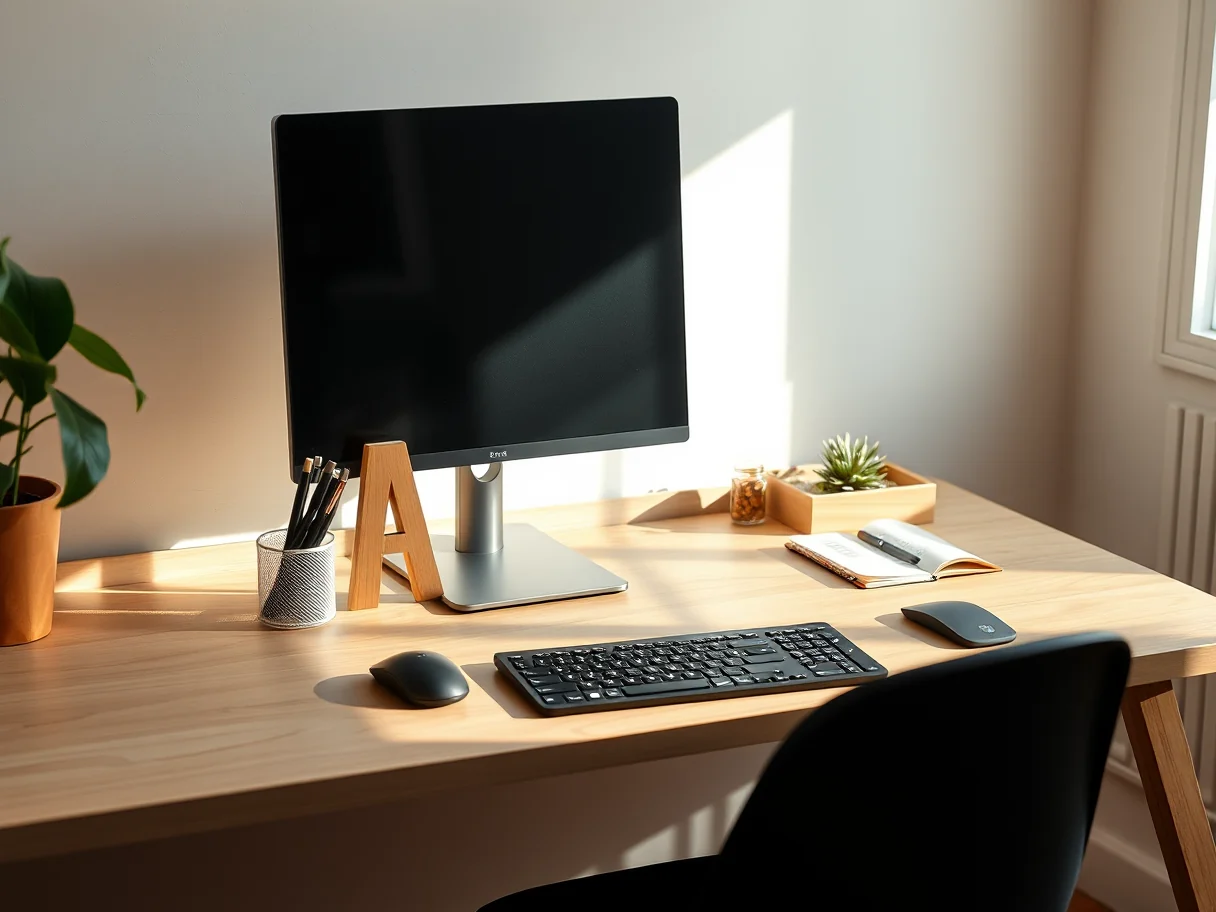
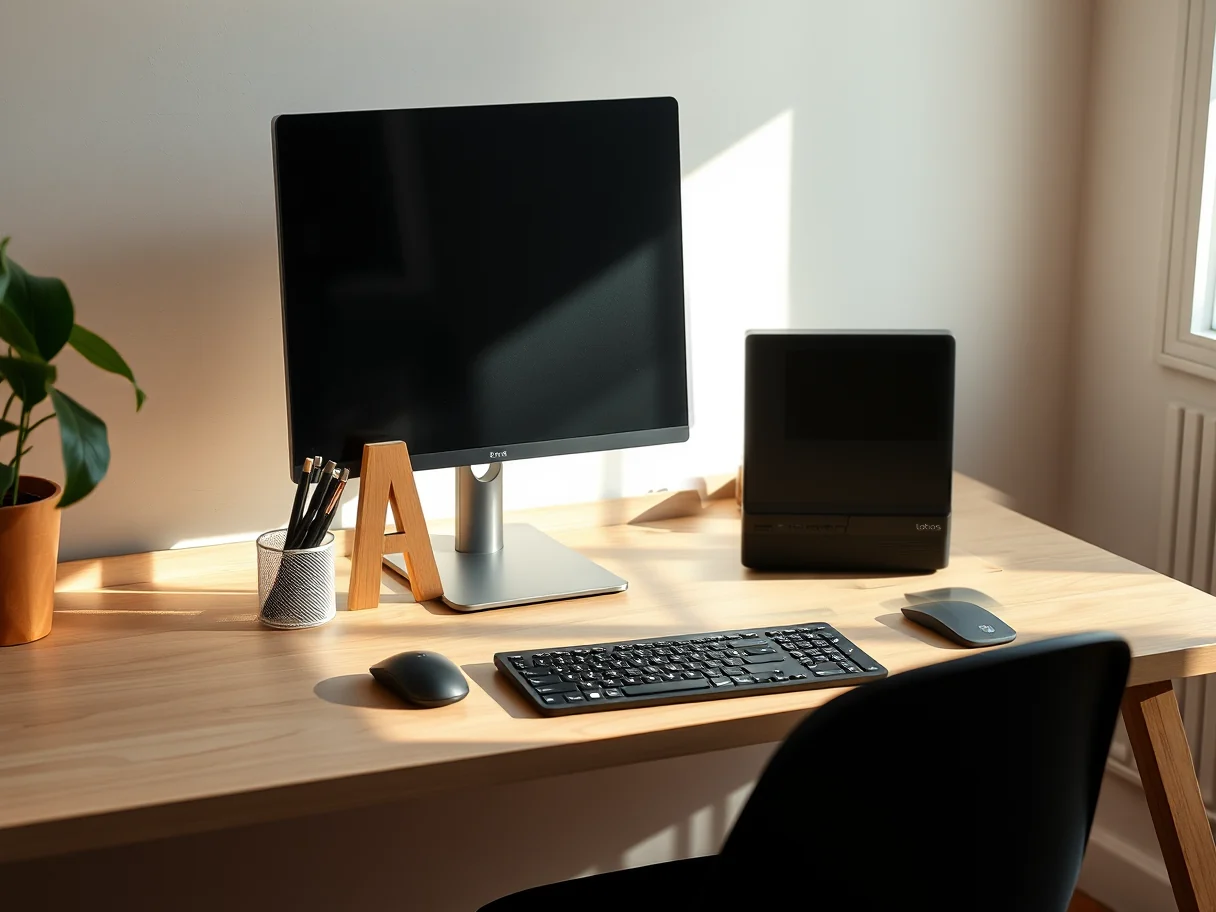
Finish the scene pass: office and home-setup placed, display reverted
office.webp is the best result of the four. Framed close, the product occupies
~90px of the frame and Qwen rendered the wordmark correctly on its own — it
reads "latios" in the right typeface, no retouch needed. That is the useful
finding from this pass: wordmark fidelity tracks how large the product sits in
frame. At 90px the model is exact; at the 24px it gets in a wide room shot it
garbles, and the mark has to be composited afterwards.

home-setup.webp needed the region limit added to scene_merge: without it the
edit's incidental changes came along too. The second mouse and the mark on the
monitor bezel turned out to be in the original generated scene, not introduced
by Qwen, so they stay.

display.webp is DISCARDED, per the fallback stated up front. Asked to tuck a
tower under the desk in a dim scene, the model threw away the three-monitor
composition entirely and regenerated a dark blue room. The clean product-free
original is kept — that slot is about the displays and never needed a tower.

Verified: 73/73 image references 200 over HTTP, 0 broken; every page 200; spec
tables group as 4 MT + 3 SFF with no cross-category comparison.

Changed region(s): [[0.5625, 0.3377, 0.8438, 0.6754]]

diff --git a/tools/image-processing/scene_merge.py b/tools/image-processing/scene_merge.py
@@ -21,7 +21,7 @@ So the edit is not used wholesale:
 """
 import numpy as np
 from pathlib import Path
-from PIL import Image, ImageFilter, ImageDraw
+from PIL import Image, ImageFilter, ImageDraw, ImageChops
 
 IMAGES = Path(r"C:\Ronak\latios-web\frontend\public\images")
 G = Path(__file__).parent / "generated"
@@ -58,7 +58,14 @@ def match_palette(edit, orig, mask):
     return Image.fromarray(np.clip(out, 0, 255).astype(np.uint8))
 
 
-def merge(orig_path, edit_path, out_path, thresh=14):
+def merge(orig_path, edit_path, out_path, thresh=14, region=None):
+    """
+    `region` = (x0, y0, x1, y1) confines the edit to the area around the product.
+
+    Without it the model's incidental changes elsewhere come along too — on the
+    home-office scene it invented a second mouse and put a mark on the monitor
+    bezel. Everything outside the region reverts to the original room.
+    """
     orig = Image.open(orig_path).convert("RGB")
     edit = Image.open(edit_path).convert("RGB").resize(orig.size, Image.LANCZOS)
 
@@ -73,6 +80,11 @@ def merge(orig_path, edit_path, out_path, thresh=14):
         mask = change_mask(orig, graded, thresh=thresh)
         graded = match_palette(edit, orig, mask)
     mask = change_mask(orig, graded, thresh=thresh)
+    if region:
+        keep = Image.new("L", orig.size, 0)
+        ImageDraw.Draw(keep).rectangle(region, fill=255)
+        keep = keep.filter(ImageFilter.GaussianBlur(10))
+        mask = ImageChops.multiply(mask, keep)
     merged = Image.composite(graded, orig, mask)
     merged.save(out_path)
     cover = np.asarray(mask).mean() / 255.0
